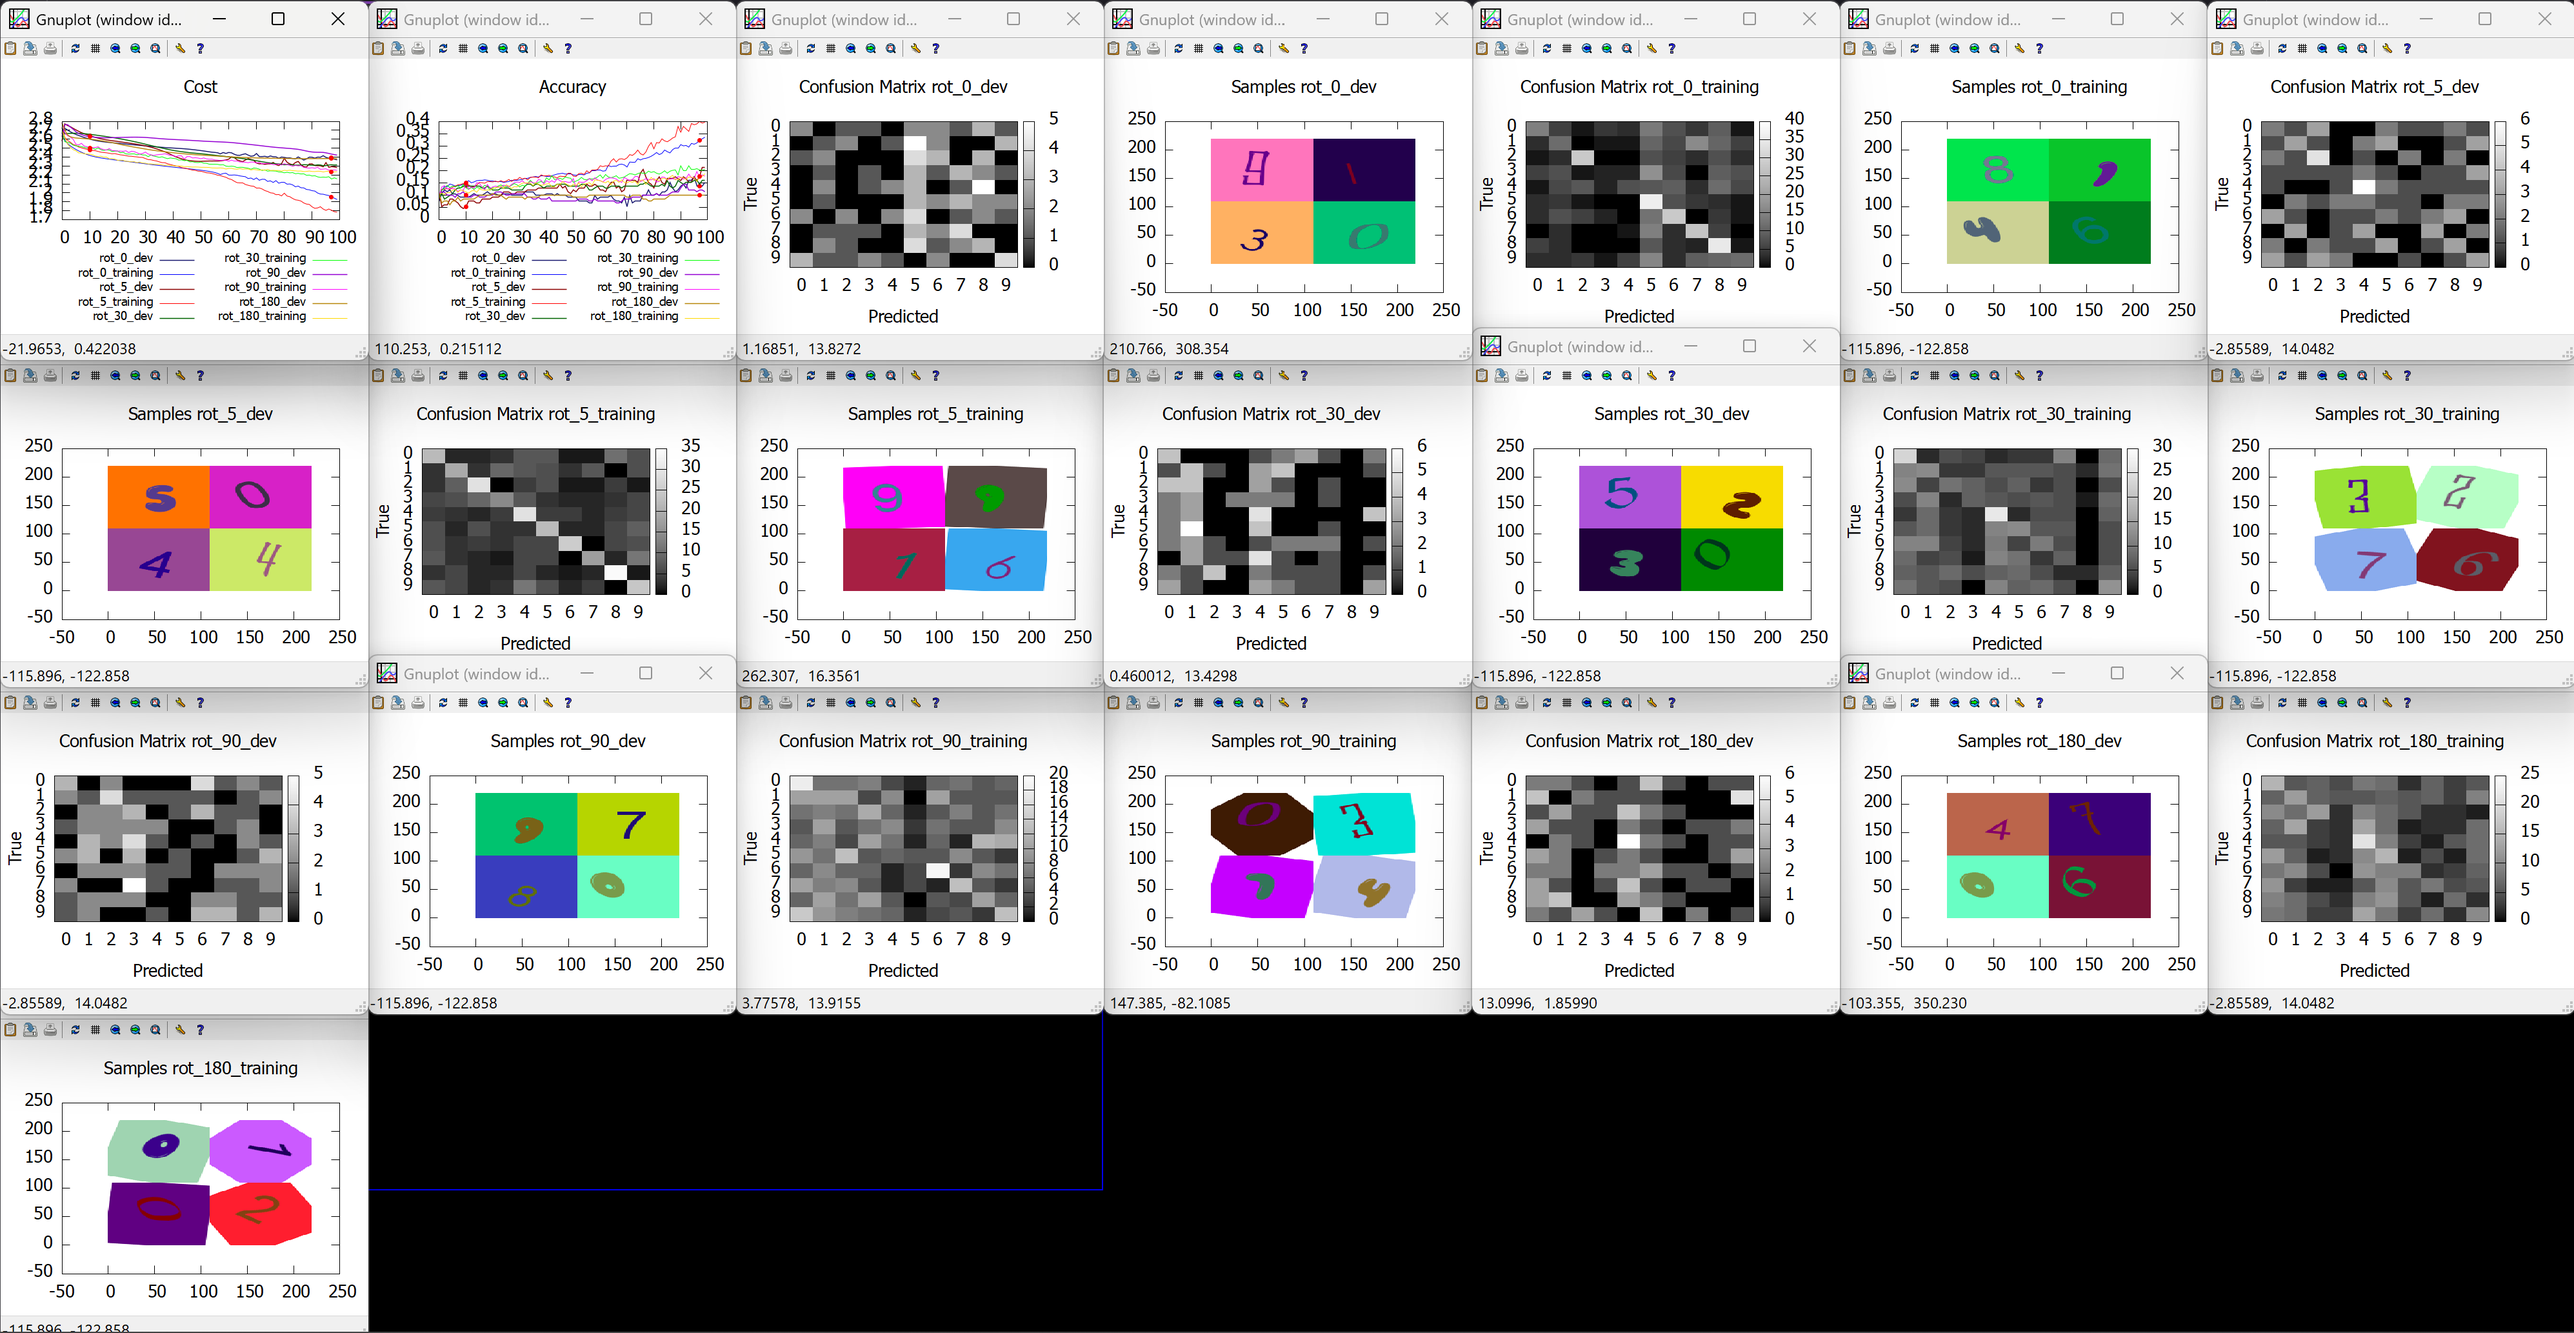
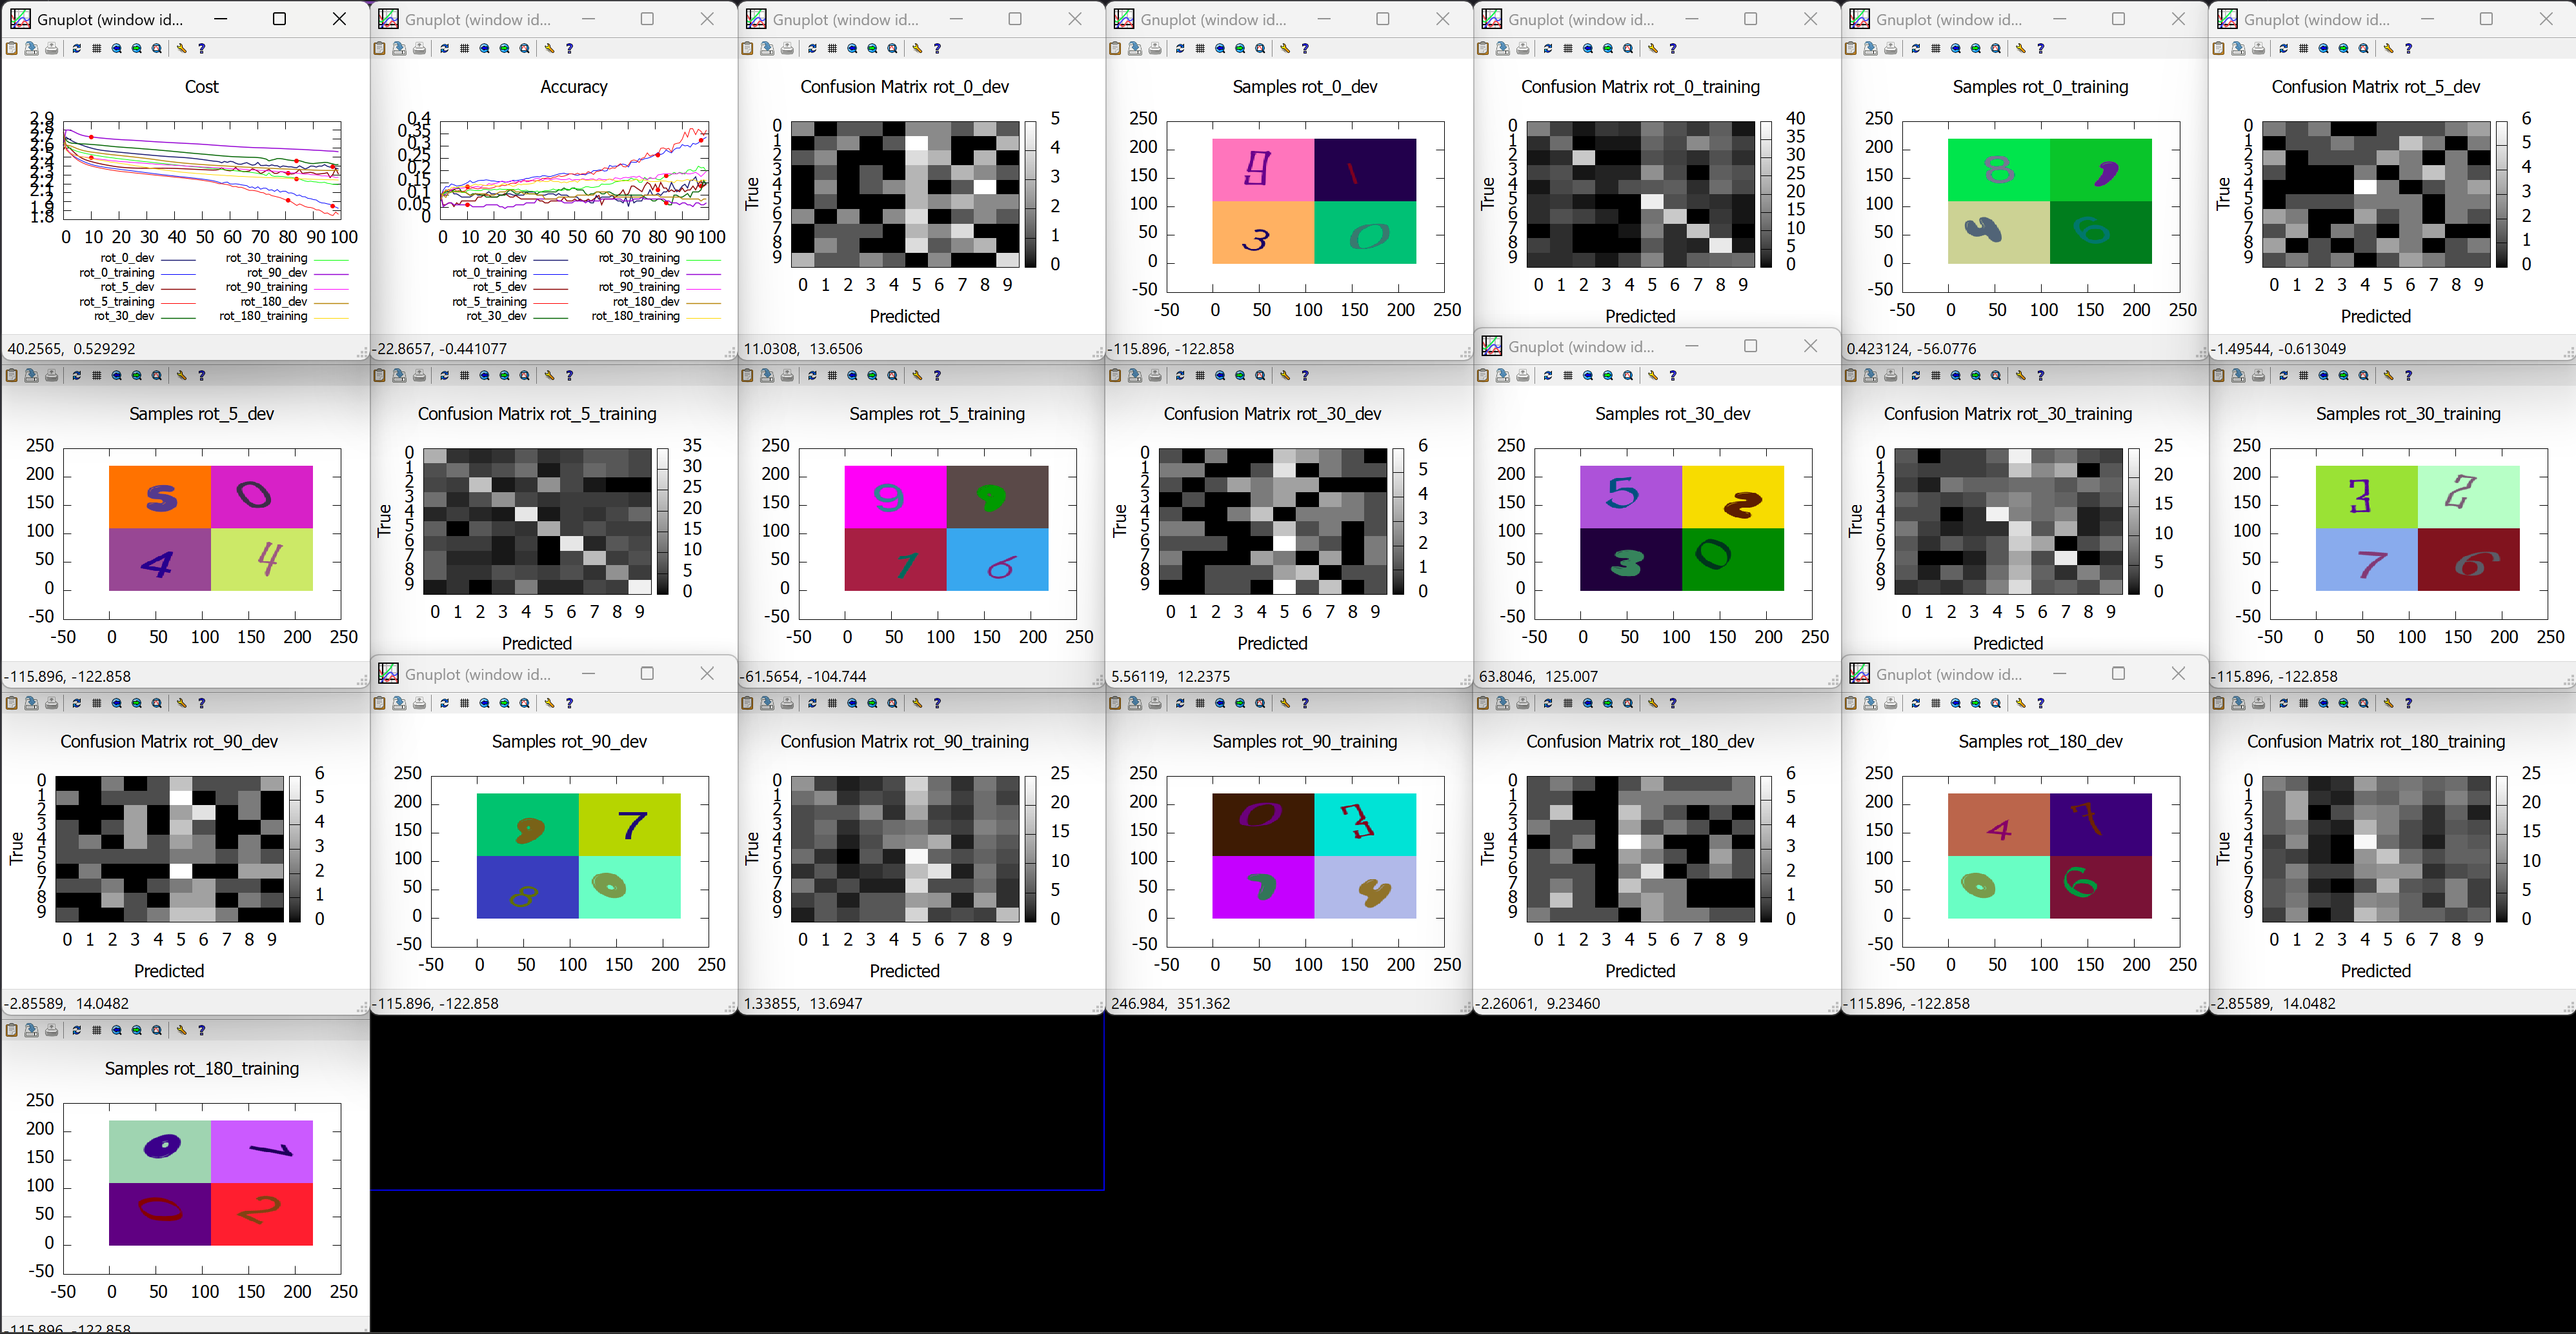
fix: Make sure rotation fills white pixels with border colors

diff --git a/lib/ruby_neural_nets/data_loaders/numo.rb b/lib/ruby_neural_nets/data_loaders/numo.rb
@@ -84,16 +84,13 @@ module RubyNeuralNets
       # * Dataset: The dataset with augmentation applied
       def new_augmentation_dataset(preprocessed_dataset, rng:, numo_rng:)
         Datasets::ImageNoise.new(
-          Datasets::ImageCrop.new(
-            Datasets::ImageRotate.new(
-              Datasets::Clone.new(
-                preprocessed_dataset,
-                nbr_clones: @nbr_clones
-              ),
-              rot_angle: @rot_angle,
-              rng:
+          Datasets::ImageRotate.new(
+            Datasets::Clone.new(
+              preprocessed_dataset,
+              nbr_clones: @nbr_clones
             ),
-            crop_size: @resize
+            rot_angle: @rot_angle,
+            rng:
           ),
           numo_rng:,
           noise_intensity: @noise_intensity

diff --git a/lib/ruby_neural_nets/datasets/image_rotate.rb b/lib/ruby_neural_nets/datasets/image_rotate.rb
@@ -41,7 +41,8 @@ module RubyNeuralNets
       # * Magick::Image: Rotated image or original if no rotation needed
       def apply_rotate(image)
         if @rot_angle > 0
-          image.rotate(@rng.rand(-@rot_angle..@rot_angle))
+          image.virtual_pixel_method = Magick::EdgeVirtualPixelMethod
+          image.distort(Magick::ScaleRotateTranslateDistortion, [@rng.rand(-@rot_angle..@rot_angle)])
         else
           image
         end

diff --git a/README.md b/README.md
@@ -559,22 +559,24 @@ Analysis: We see a normal curve for the 0 layer model, where early stopping corr
 
 | Rotation | Training cost | Training accuracy | Dev cost | Dev accuracy | Early stop epoch | Avoidable bias | Variance |
 | -------- | ------------- | ----------------- | -------- | ------------ | ---------------- | -------------- | -------- |
-| 0°       | 1.93          | 34%               | 2.37     | 15%          | 97               | 66%            | 19%      |
-| 5°       | 1.78          | 40%               | 2.28     | 21%          | 10               | 60%            | 19%      |
-| 30°      | 2.16          | 20%               | 2.31     | 16%          |                  | 80%            | 4%       |
-| 90°      | 2.25          | 18%               | 2.42     | 11%          | 10               | 82%            | 7%       |
-| 180°     | 2.24          | 19%               | 2.38     | 10%          | 97               | 81%            | 9%       |
+| 0°       | 1.93          | 33.56%            | 2.37     | 15.15%       | 97               | 66%            | 18%      |
+| 5°       | 1.86          | 36.42%            | 2.31     | 14.39%       | 81               | 64%            | 22%      |
+| 30°      | 2.19          | 19.56%            | 2.42     | 14.39%       | 84               | 80%            | 5%       |
+| 90°      | 2.27          | 19.73%            | 2.56     | 6.82%        | 10               | 80%            | 13%      |
+| 180°     | 2.24          | 15.85%            | 2.35     | 8.33%        |                  | 84%            | 8%       |
 
 ![Dataset rotations comparison](docs/n_layers_numbers/hyper_parameters/dataset_rotations.png)
+
+Analysis: Smaller rotations show decent learning while larger rotations significantly degrade performance.
 
 * Changing number of augmented samples: `--exp-id=nbr_1 --nbr-clones=1 --resize=24,24 --rot-angle=20 --noise-intensity=0.1 --dataset=numbers --data-loader=Numo --accuracy=ClassesNumo --model=NLayers --optimizer=Adam --gradient-checks=off --nbr-epochs=100 --max-minibatch-size=100000 --layers=16 --experiment --exp-id=nbr_2 --nbr-clones=2 --resize=24,24 --rot-angle=20 --noise-intensity=0.1 --dataset=numbers --data-loader=Numo --accuracy=ClassesNumo --model=NLayers --optimizer=Adam --gradient-checks=off --nbr-epochs=100 --max-minibatch-size=100000 --layers=16 --experiment --exp-id=nbr_10 --nbr-clones=10 --resize=24,24 --rot-angle=20 --noise-intensity=0.1 --dataset=numbers --data-loader=Numo --accuracy=ClassesNumo --model=NLayers --optimizer=Adam --gradient-checks=off --nbr-epochs=100 --max-minibatch-size=100000 --layers=16 --experiment --exp-id=nbr_100 --nbr-clones=100 --resize=24,24 --rot-angle=20 --noise-intensity=0.1 --dataset=numbers --data-loader=Numo --accuracy=ClassesNumo --model=NLayers --optimizer=Adam --gradient-checks=off --nbr-epochs=100 --max-minibatch-size=100000 --layers=16`
 
 | Samples multiplier | # parameters | Params/samples ratio | Training cost | Training accuracy | Dev cost | Dev accuracy | Early stop epoch | Avoidable bias | Variance |
 | ------------------ | ------------ | -------------------- | ------------- | ----------------- | -------- | ------------ | ---------------- | -------------- | -------- |
-| 1                  | 27860        | 47                   | 1.90          | 33%               | 2.42     | 19%          | 15               | 67%            | 14%      |
-| 2                  | 27860        | 23                   | 1.86          | 34%               | 2.30     | 21%          | 46               | 66%            | 13%      |
-| 10                 | 27860        | 4.7                  | 1.81          | 37%               | 2.23     | 20%          | 34               | 63%            | 17%      |
-| 100                | 27860        | 0.47                 | 1.86          | 36%               | 2.24     | 17%          | 93               | 64%            | 19%      |
+| 1                  | 27860        | 47                   | 1.91          | 32.38%            | 2.37     | 15.91%       | 11               | 68%            | 16%      |
+| 2                  | 27860        | 23                   | 1.89          | 34.32%            | 2.25     | 22.73%       | 70               | 66%            | 12%      |
+| 10                 | 27860        | 4.7                  | 1.83          | 36.39%            | 2.20     | 21.97%       | 14               | 64%            | 14%      |
+| 100                | 27860        | 0.47                 | 1.84          | 35.68%            | 2.24     | 22.73%       | 31               | 64%            | 13%      |
 
 ![Number of samples comparison](docs/n_layers_numbers/hyper_parameters/dataset_samples.png)
 
